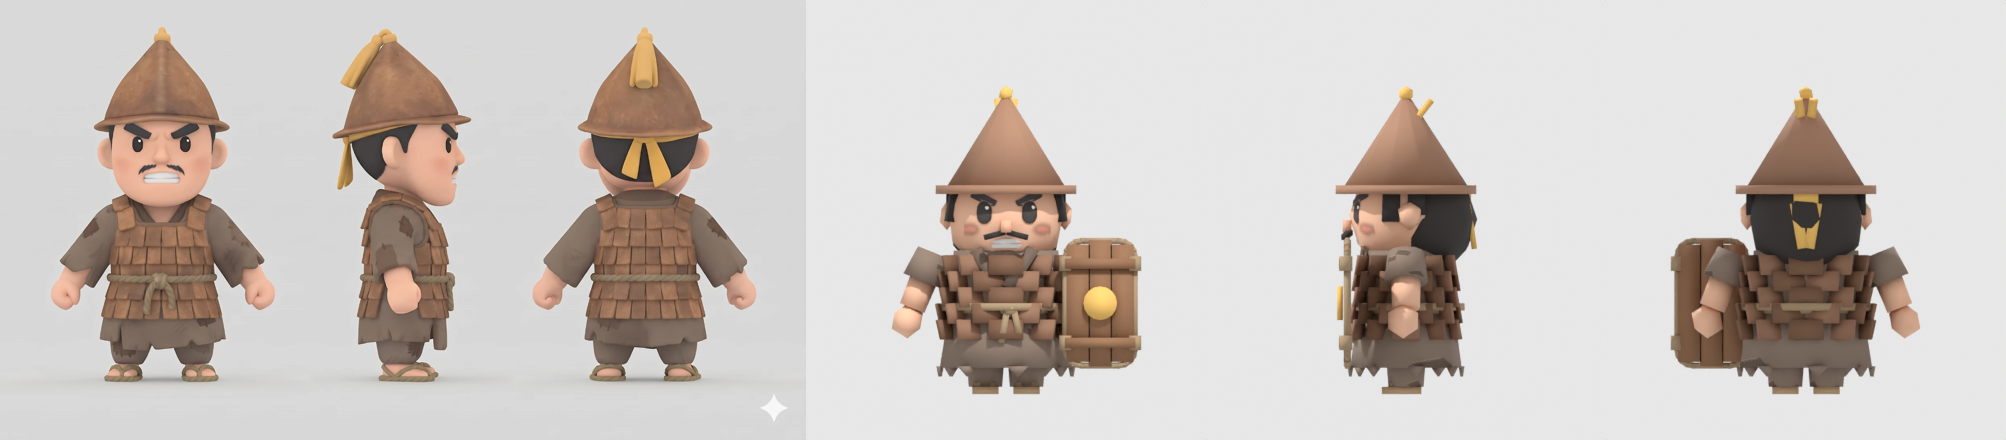
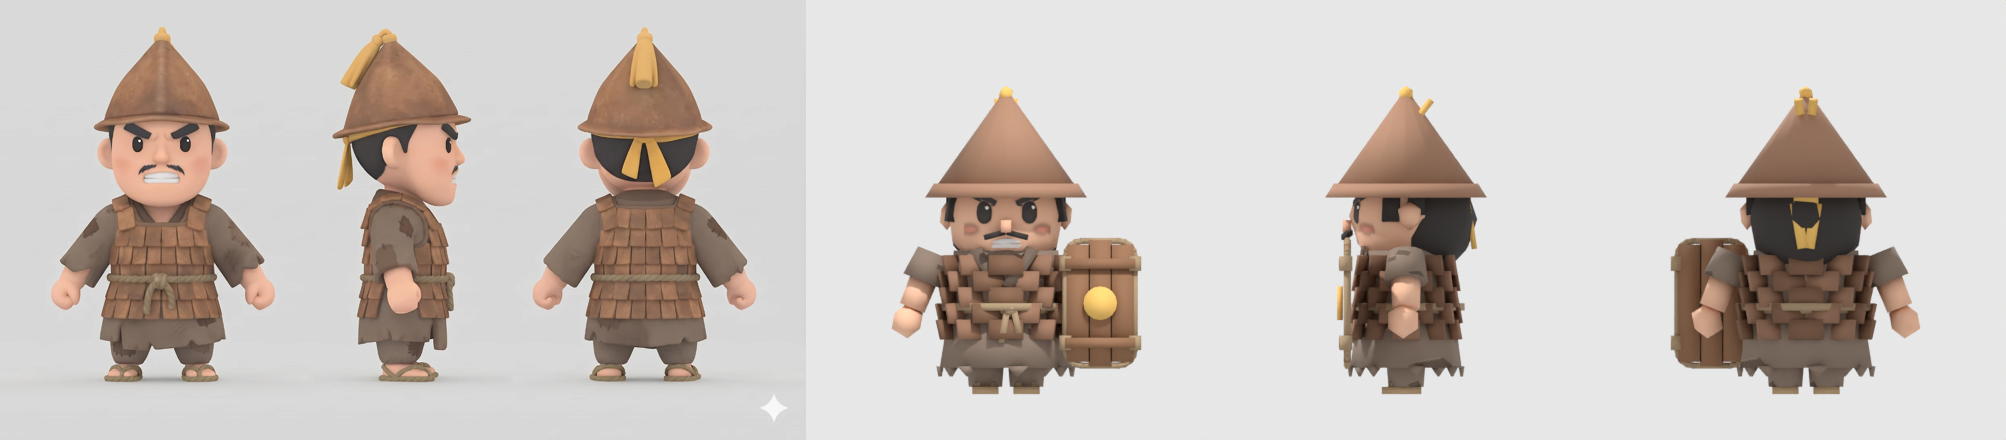
fix(3d): D-351 방패병 투구 챙 설정화처럼 넓게(규칙 3 예외) · D-345 기록 바로잡음
Claude-Session: https://claude.ai/code/session_01XFoExqp4GKKw69rBvu7vU1

diff --git a/godot3d/tools/blender/yt_grunt.py b/godot3d/tools/blender/yt_grunt.py
@@ -120,8 +120,10 @@ cute.face_decal(b, os.path.join(TEX, "face_yt_%s.png" % KIND), face_ball, DEC["w
 # ── 머리 장식 ──
 if KIND == "shield":   # 원뿔형 가죽 투구(챙이 이마를 살짝 파고듦) · 꼭대기 노란 술 · 뒤 노란 끈
     HELM = lp.mat("helmet", "9d765e")
-    brim = b.cone(0.40, 0.40, BAND_LO - 0.02, BAND_LO + 0.03, HELM, v=16)   # 챙(머리 폭 + 5% 이내 — 원뿔 투구 챙만 조금 넓음)
-    b.cone(0.355, 0.03, BAND_LO + 0.02, BAND_LO + 0.52, HELM, v=10)    # 뾰족한 원뿔
+    # D-351: 규칙 3(폭 머리 + 5%)의 예외 — 설정화처럼 넓고 두꺼운 챙이 바깥으로 처짐 · 원뿔 밑동도 넓게(얼굴 공 0.34의 약 1.35배)
+    brim = b.cone(0.46, 0.41, BAND_LO - 0.04, BAND_LO + 0.04, HELM, v=16)   # 챙(아래가 넓어 바깥으로 처짐)
+    brim["crease"] = 0.5
+    b.cone(0.40, 0.03, BAND_LO + 0.02, BAND_LO + 0.54, HELM, v=12)    # 뾰족한 원뿔(밑동 넓게)
     b.ball(0.045, (0, 0, BAND_LO + 0.55), MUSTARD, 1)                  # 꼭지
     for k, (dx, ry) in enumerate(((-0.03, -8), (0.03, 8))):
         b.box(0.05, 0.035, 0.24, (dx, 0.07, BAND_LO + 0.42), MUSTARD, (R(-38), R(ry), 0))   # 늘어진 노란 술

diff --git a/docs/art/character-model-rules.md b/docs/art/character-model-rules.md
@@ -32,7 +32,7 @@
 - 챙은 **이마를 살짝 파고들게**: 띠 아래 반지름을 그 높이 얼굴 단면에 맞춤(관우 0.315), 아래 가장자리는 **눈썹 바로 위**(관우 1.435, 머리 후처리 뒤 1.41).
 - 경계는 **옆머리로 연결**(띠 아래 · 귀 앞). 수염이 있으면 수염 위끝(구레나룻)이 그 역할.
 - 뒤 매듭 · 늘어진 끈 · 뒷머리를 덮는 천은 자유.
-- 현재: 황건 방패병 원뿔 투구 챙도 이 규칙(0.357)으로 만들어 설정화보다 챙이 좁다.
+- **예외(D-351):** 챙이 실루엣인 투구(황건 방패병 원뿔 가죽 투구)는 설정화대로 넓게 — 챙 아래 r 0.46 · 위 0.41(얼굴 공 0.34의 약 1.35배), 두께 0.08로 바깥으로 처짐, 원뿔 밑동 0.40. 감싸는 두건 · 띠에는 +5% 규칙 그대로.
 
 ## 4. 수염 · 머리카락
 
@@ -56,7 +56,7 @@
 - 전체 **shade_smooth + Subdivision Surface**: 장수 · 보스 **levels=2**, 잡몹 **levels=0**(나누지 않고 크리스 · 매끈한 음영만 — D-346. 처음 규칙은 1이었지만 적 떼에 너무 무거움. `yt_grunt.py --subd=1`로 되돌릴 수 있음).
 - 받침 모서리 없는 저폴리 조각은 그냥 나누면 녹아내리므로 **크리스로 부피를 지킨다**(`cute.smooth_all`): 원기둥 옆 모서리 0(둥근 관) · 위아래 테 0.8(소매처럼 끝이 둥글어야 하면 `soft_caps` 0.3), 상자 0.25, 두께 준 판 0.6, 공 0, 조각별 지정 `crease`(가죽 비늘 · 나무 판 0.7 ~ 0.75).
 - 큰 공(얼굴 · 머리카락 · 두건 · 몸통)은 분할 2, 작은 공은 1(잡몹 — 얼굴 공을 1로 낮추면 데칼이 일그러짐). 잡몹 levels=0에선 원기둥 · 상자가 조금 각져 보이지만 게임 카메라 거리에선 거의 구분 안 됨.
-- 삼각형: 관우 51,392. 황건 잡병(levels=0) 병사 1,836 · 궁병 1,588 · 돌격병 1,556 · 방패병 2,688(D-347 허리 · 새끼줄 테 고친 뒤)(levels=1이면 7,020 · 6,064 · 6,096 · 8,272, D-345 전 예전 모델 1,024 ~ 2,084).
+- 삼각형: 관우 51,392. 황건 잡병(levels=0) 병사 1,836 · 궁병 1,588 · 돌격병 1,556 · 방패병 2,696(D-347 · 351 고친 뒤)(levels=1이면 7,020 · 6,064 · 6,096 · 8,272, D-345 전 예전 모델 1,024 ~ 2,084).
 - 적 600명 프레임(`--bench --bench-levels=0,600`, 소프트웨어 렌더 — 전후 비교만): 예전 모델 933ms · levels=0 1,291ms · levels=1 3,354ms.
 
 ## 7. 색

diff --git a/docs/decision-log.md b/docs/decision-log.md
@@ -4254,3 +4254,11 @@
 - **판단:** D-349에서 "가깝다고 생각되지 않아?"를 "가까운 느낌이 안 든다"로 잘못 읽어 더 당기는 후보만 냈었음. 40° · 12 변경은 커밋 전에 되돌림. 지금 너무 가깝게 느껴진 건 D-343에서 거리를 20% 당긴 값(17.7 → 14.2)이라서.
 - **구성:** `scripts/main.gd` `CAM_OFFSET` 10.4 · 9.6(47.3° · 14.2) → 10.28 · 12.26(40° · 16), 화각 50 그대로. 문서 8번 카메라 줄 고침.
 - **확인:** 게임 화면 `godot3d/art/experiments/camera_40_16_game.png`(7분 20초부터, 걷는 중), 렌더 없는 자동 판 스크립트 오류 0. 움직일 때 느낌은 직접 해 봐야 함.
+
+### D-351. 방패병 투구 챙은 설정화처럼 넓게(규칙 3 예외) (2026-11-25)
+- **사용자:** "방패병 투구 챙은 설정화처럼 넓게 예외로 해 줘"
+- **바로잡음:** D-345 기록 · 문서 · 보고에 "방패병 챙을 규칙 3(머리 폭 + 5%, r 0.357)대로 좁혔다"고 썼지만, 그 수정은 코드에 실제로 들어가지 않았음(문자열 바꾸기가 맞지 않아 그냥 넘어감) — 챙은 그동안 r 0.40이었음.
+- **판단:** 숫자상 챙 폭 ÷ 귀 포함 얼굴 폭은 설정화 1.04 · 렌더 1.07로 이미 비슷했음. 설정화 챙이 넓어 보이는 건 챙이 두껍고 바깥으로 처지면서 원뿔 밑동도 넓어서 — 그 모양을 따름.
+- **구성(`tools/blender/yt_grunt.py`):** 챙 r 0.40 · 두께 0.05 평판 → 아래 0.46 · 위 0.41 · 두께 0.08(바깥으로 처짐, 크리스 0.5), 원뿔 밑동 0.355 → 0.40 · 높이 0.52 → 0.52(위끝 BAND_LO + 0.54). 문서 3번에 예외로 적음(챙이 실루엣인 투구만 — 감싸는 두건 · 띠는 +5% 그대로). 삼각형 2,688 → 2,696.
+- **확인:** 설정화 비교 `godot3d/art/experiments/yt_shield_vs_concept.png` 다시, 렌더 없는 자동 판 스크립트 오류 0.
+- **남은 것:** 설정화 투구는 원뿔이 더 낮고 둥긂 — 지금은 높고 뾰족함(이번엔 챙만 고침).
